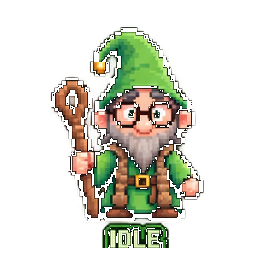
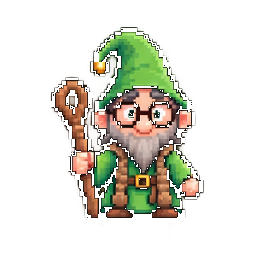
Show candles for QQQ, BTC, and ETH, and remove Fonzo's name plates.
The five-minute chart stayed on the SPY frame after an asset switch, and only SPY had minute bars. Each asset now keeps its own chart, and the workers store recent minute history for the other symbols. The captions under Fonzo's idle, walk, look, happy, sit, and sleep poses are gone.

Changed region(s): [[0.375, 0.8438, 0.6875, 0.9688]]

diff --git a/src/server/trading.ts b/src/server/trading.ts
@@ -135,27 +135,42 @@ async function ingestSymbol(
     orderBy: { ts: "desc" },
   });
   const fresh = all ? bars : bars.filter((bar) => !latest || bar.ts >= latest.ts.getTime());
-  for (const bar of fresh) {
-    const volume = Math.min(2_000_000_000, Math.max(0, Math.round(bar.volume)));
-    await prisma.marketBar.upsert({
+  const rows = fresh.map((bar) => ({
+    accountId,
+    symbol: brokerSymbol,
+    ts: new Date(bar.ts),
+    open: bar.open,
+    high: bar.high,
+    low: bar.low,
+    close: bar.close,
+    volume: Math.min(2_000_000_000, Math.max(0, Math.round(bar.volume))),
+    timeframe: interval,
+  }));
+  for (let index = 0; index < rows.length; index += 500) {
+    await prisma.marketBar.createMany({ data: rows.slice(index, index + 500), skipDuplicates: true });
+  }
+  for (const row of rows.slice(-2)) {
+    await prisma.marketBar.update({
       where: {
-        accountId_symbol_ts_timeframe: { accountId, symbol: brokerSymbol, ts: new Date(bar.ts), timeframe: interval },
+        accountId_symbol_ts_timeframe: { accountId, symbol: row.symbol, ts: row.ts, timeframe: interval },
       },
-      create: {
-        accountId,
-        symbol: brokerSymbol,
-        ts: new Date(bar.ts),
-        open: bar.open,
-        high: bar.high,
-        low: bar.low,
-        close: bar.close,
-        volume,
-        timeframe: interval,
-      },
-      update: { high: bar.high, low: bar.low, close: bar.close, volume, timeframe: interval },
+      data: { high: row.high, low: row.low, close: row.close, volume: row.volume },
     });
   }
   return bars.at(-1)?.close ?? null;
+}
+
+/** The chart needs minute bars after the session, and crypto keeps printing overnight. */
+async function refreshIntraday(accountId: string, asset: Asset, now: Date) {
+  const latest = await prisma.marketBar.findFirst({
+    where: { accountId, symbol: asset.symbol, timeframe: "1m" },
+    orderBy: { ts: "desc" },
+  });
+  const age = latest ? now.getTime() - latest.ts.getTime() : Number.POSITIVE_INFINITY;
+  if (asset.market === "nyse" && latest && age < 7 * 24 * 60 * 60 * 1000) return;
+  if (asset.market === "crypto" && latest && age < 5 * 60_000) return;
+  const range = latest && age < 2 * 24 * 60 * 60 * 1000 ? "1d" : "5d";
+  await ingestSymbol(accountId, asset.symbol, asset.yahoo, "1m", range);
 }
 
 async function refreshAssets(accountId: string, assets: Asset[], hot: boolean, now: Date, which: "stock" | "crypto") {
@@ -165,6 +180,7 @@ async function refreshAssets(accountId: string, assets: Asset[], hot: boolean, n
     else lastCryptoFetch = now.getTime();
     for (const asset of assets) {
       await ingestSymbol(accountId, asset.symbol, asset.yahoo, hot ? "1m" : "1d", hot ? "1d" : "5d");
+      if (!hot) await refreshIntraday(accountId, asset, now);
     }
   }
   if (!hot) {

diff --git a/src/components/charts.tsx b/src/components/charts.tsx
@@ -77,10 +77,11 @@ function candleLabel(t: number, frame: CandleFrame, sameDay: boolean) {
     : { hour: "numeric", minute: "2-digit", timeZone: "America/New_York" });
 }
 
-export function PriceChart({ daily, minute }: { daily: Ohlc[]; minute: Ohlc[] }) {
-  const [frame, setFrame] = useState<CandleFrame>(minute.length >= 10 ? "5m" : "1D");
+export function PriceChart({ symbol, daily, minute }: { symbol: string; daily: Ohlc[]; minute: Ohlc[] }) {
+  const intraday = useMemo(() => fiveMinuteCandles(minute), [minute]);
+  const [frame, setFrame] = useState<CandleFrame>(intraday.length >= 2 ? "5m" : "1D");
   const [hover, setHover] = useState<number | null>(null);
-  const points = frame === "5m" ? fiveMinuteCandles(minute) : daily;
+  const points = frame === "5m" ? intraday : daily;
   const active = hover == null ? points.at(-1) : points[hover];
   const prior = hover == null ? points.at(-2) : points[Math.max(0, hover - 1)];
   const change = active && prior && active !== prior ? active.close - prior.close : 0;
@@ -108,21 +109,25 @@ export function PriceChart({ daily, minute }: { daily: Ohlc[]; minute: Ohlc[] })
       </div>
       {points.length < 2 ? (
         <p className="text-sm text-[var(--muted)]">
-          {frame === "5m" ? "Five-minute candles print once the session is open." : "Daily candles show up once SPY history is stored."}
+          {frame === "5m"
+            ? `Five-minute candles for ${symbol} print once that history is stored.`
+            : `Daily candles for ${symbol} show up once that history is stored.`}
         </p>
       ) : (
-        <CandleSvg points={points} frame={frame} hover={hover} onHover={setHover} />
+        <CandleSvg symbol={symbol} points={points} frame={frame} hover={hover} onHover={setHover} />
       )}
     </div>
   );
 }
 
 function CandleSvg({
+  symbol,
   points,
   frame,
   hover,
   onHover,
 }: {
+  symbol: string;
   points: Ohlc[];
   frame: CandleFrame;
   hover: number | null;
@@ -150,7 +155,7 @@ function CandleSvg({
           width={layout.width}
           height={layout.height}
           role="img"
-          aria-label="SPY candlestick chart"
+          aria-label={`${symbol} candlestick chart`}
           className="touch-none"
           onPointerMove={(event) => onHover(layout.indexAt(event.clientX, event.currentTarget))}
           onPointerLeave={() => onHover(null)}

diff --git a/src/app/(desk)/page.tsx b/src/app/(desk)/page.tsx
@@ -43,7 +43,7 @@ export default async function DashboardPage({
             <CardTitle>{desk.assetLabel}</CardTitle>
             <p className="tabular text-lg font-semibold">{desk.mark == null ? "—" : formatPx(desk.mark)}</p>
           </div>
-          <PriceChart daily={desk.spyBars.daily} minute={desk.spyBars.minute} />
+          <PriceChart key={desk.symbol} symbol={desk.assetLabel} daily={desk.bars.daily} minute={desk.bars.minute} />
         </Card>
         <Card className="space-y-3 lg:col-span-2">
           <CardTitle>Status</CardTitle>

diff --git a/src/components/uriel-mark.tsx b/src/components/uriel-mark.tsx
@@ -17,7 +17,7 @@ type Pose =
 
 function spritesFor(pet: "uriel" | "fonzo"): Record<Pose, string> {
   const folder = pet === "fonzo" ? "fonzo" : "uriel";
-  const art = pet === "fonzo" ? "?v=1" : "?v=4";
+  const art = pet === "fonzo" ? "?v=2" : "?v=4";
   return {
     idle: `/${folder}/idle.png${art}`,
     walk: `/${folder}/walk.png${art}`,

diff --git a/src/server/desk.ts b/src/server/desk.ts
@@ -230,7 +230,7 @@ export async function getDesk(query?: DeskQuery) {
     snapshots: snapshots
       .map((row) => ({ t: row.capturedAt.getTime(), equityCents: row.equityCents }))
       .reverse(),
-    spyBars: {
+    bars: {
       daily: dailyBars.map(candle).reverse(),
       minute: minuteBars.map(candle).reverse(),
     },
